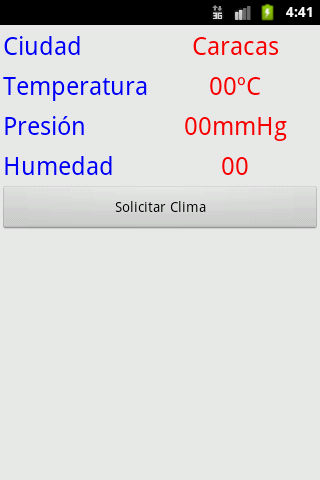
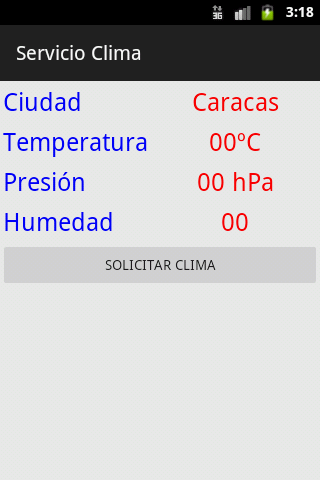
Corrección de unidades

Changed region(s): [[0.0, 0.0, 1.0, 0.5], [0.3125, 0.5312, 0.6875, 0.5625]]

diff --git a/app/src/main/java/com/prueba/servicioclima/ServicioClima.java b/app/src/main/java/com/prueba/servicioclima/ServicioClima.java
@@ -78,9 +78,9 @@ public class ServicioClima extends IntentService {
             Message message = Message.obtain(null, PUBLICAR_DATOS);
             Bundle data = new Bundle();
             data.putDouble("temp", datosClima.getMain().getTemp());
-            data.putDouble("temp_min", datosClima.getMain().getTemp_max());
-            data.putDouble("temp_max", datosClima.getMain().getTemp_min());
+            data.putDouble("humidity", datosClima.getMain().getHumidity());
             data.putDouble("pressure", datosClima.getMain().getPressure());
+            data.putString("ciudad", datosClima.getName());
             message.setData(data);
             if (messengerServicio2Activity != null) {
 

diff --git a/readme.md b/readme.md
@@ -309,13 +309,6 @@ Realiza conexiones cada 10 segundos al servicio RESTFul mienttras el booleano **
 
 ![inicial](/capturas/inicial.png) ![iniservicio](/capturas/iniservicio.png) ![notificacion](/capturas/notificacion.png) ![termometro](/capturas/termometro.png)
 
-Markdown | Less | Pretty
---- | --- | ---
-*Still* | `renders` | **nicely**
-1 | 2 | 3
-
-***
-
 ##Referencias
 
 1. [Android Services](http://developer.android.com/guide/components/services.html)
